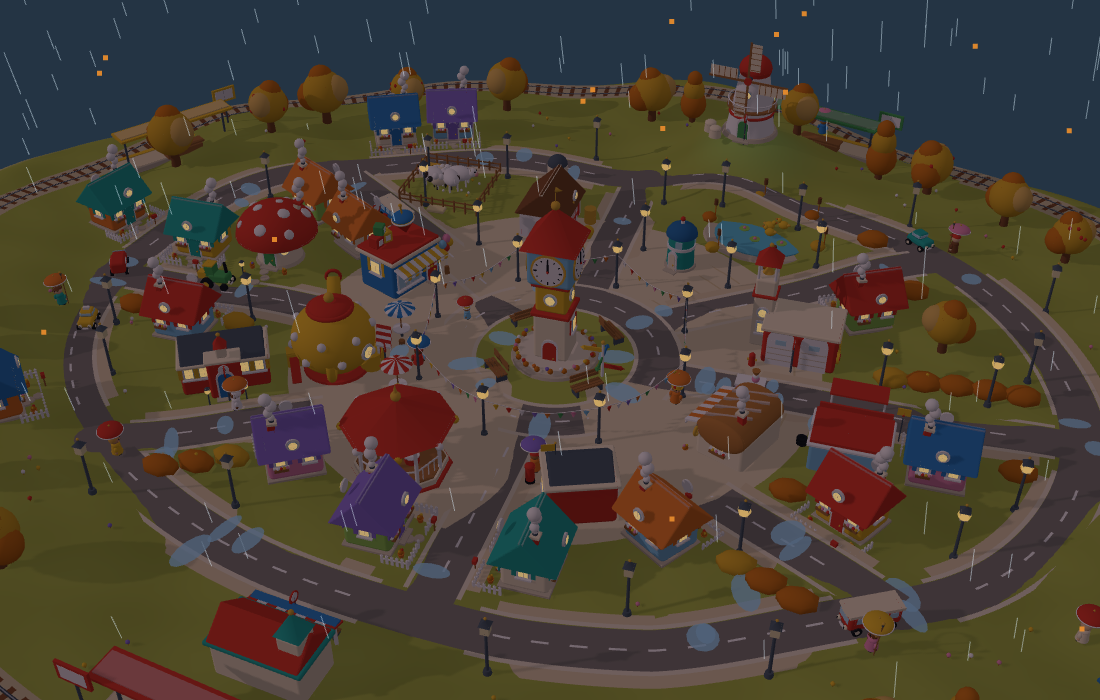
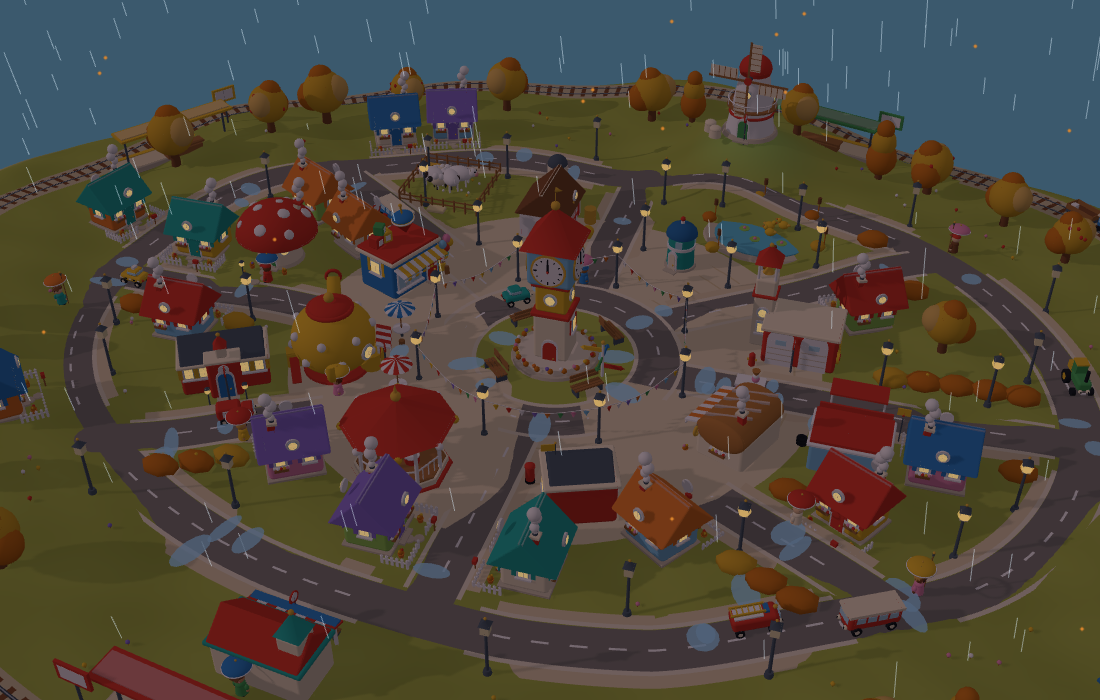
New Toy Town: polish from the owner's screenshot (sea at dusk, shallows, round petals, blossom trees) and a time-jump crash (#227)
* Toy Town: calmer pace, and days that match the news

The whole town runs at 60% speed. Up to three light stories now shape
the day, and the specific kind of story picks what happens, from 36
variants: cricket, tennis, a Grand Prix, a marathon, medals; the Moon,
a Mars rover, a comet; a polling queue; Diwali lamps and lanterns,
Christmas snow and a sleigh, Halloween ghosts and bats, a New Year
countdown, Holi colours, Eid lanterns; a concert, a prize, a red carpet;
a phone launch, robots, drones; a panda, a whale, a friendly dinosaur,
a penguin parade; coins from the bank tower and more. The everyday
chaos adds a marching band, a hot air balloon, a street musician, a hat
in the wind and a pothole. The grim-story filter matches whole words,
so fireworks and exploration are no longer mistaken for disasters.

Claude-Session: https://claude.ai/code/session_016DDzLFPb4BuxMAThu2pji2

* Toy Town: a calm town with traffic lights, cyclists and gentle moments

Fewer cars and walkers, four cyclists, and traffic lights at every
crossing that cars, bikes and walkers all wait for, so cross traffic no
longer piles into the crossings; nobody honks. The everyday rotation is
now gentle and unhurried: kites, picnics, a gardener watering window
boxes, a painter, a reader on a bench, butterflies, a napping cat, one
drifting balloon, the street sweeper, alongside the ice cream van,
busker, hot air balloon and band. Houses get window boxes; a tap brings
something gentle.
[…]

diff --git a/toy-town-new.html b/toy-town-new.html
@@ -36,20 +36,20 @@ canvas:active{cursor:grabbing}
 #fail small{opacity:.75}
 html.ui-off #jobs,html.ui-off #toast,html.ui-off #snd,html.ui-off #chip,html.ui-off #hint,html.ui-off #story,html.ui-off #card{display:none}
 </style>
-<script type="importmap" data-stamp="2a83b4c253">
+<script type="importmap" data-stamp="7016c53ad8">
 {"imports":{
   "three":"https://cdn.jsdelivr.net/npm/three@0.187.0/build/three.module.js",
   "three/addons/":"https://cdn.jsdelivr.net/npm/three@0.187.0/examples/jsm/",
-  "./assets/town2/build.mjs":"./assets/town2/build.mjs?v=2a83b4c253",
-  "./assets/town2/curve.mjs":"./assets/town2/curve.mjs?v=2a83b4c253",
-  "./assets/town2/def.mjs":"./assets/town2/def.mjs?v=2a83b4c253",
-  "./assets/town2/graph.mjs":"./assets/town2/graph.mjs?v=2a83b4c253",
-  "./assets/town2/inspect.mjs":"./assets/town2/inspect.mjs?v=2a83b4c253",
-  "./assets/town2/sim.mjs":"./assets/town2/sim.mjs?v=2a83b4c253",
-  "./assets/town2/sky.mjs":"./assets/town2/sky.mjs?v=2a83b4c253",
-  "./assets/town2/sound.mjs":"./assets/town2/sound.mjs?v=2a83b4c253",
-  "./assets/town2/stories.mjs":"./assets/town2/stories.mjs?v=2a83b4c253",
-  "./assets/town2/weather.mjs":"./assets/town2/weather.mjs?v=2a83b4c253"
+  "./assets/town2/build.mjs":"./assets/town2/build.mjs?v=7016c53ad8",
+  "./assets/town2/curve.mjs":"./assets/town2/curve.mjs?v=7016c53ad8",
+  "./assets/town2/def.mjs":"./assets/town2/def.mjs?v=7016c53ad8",
+  "./assets/town2/graph.mjs":"./assets/town2/graph.mjs?v=7016c53ad8",
+  "./assets/town2/inspect.mjs":"./assets/town2/inspect.mjs?v=7016c53ad8",
+  "./assets/town2/sim.mjs":"./assets/town2/sim.mjs?v=7016c53ad8",
+  "./assets/town2/sky.mjs":"./assets/town2/sky.mjs?v=7016c53ad8",
+  "./assets/town2/sound.mjs":"./assets/town2/sound.mjs?v=7016c53ad8",
+  "./assets/town2/stories.mjs":"./assets/town2/stories.mjs?v=7016c53ad8",
+  "./assets/town2/weather.mjs":"./assets/town2/weather.mjs?v=7016c53ad8"
 }}
 </script>
 </head>
@@ -65,7 +65,7 @@ html.ui-off #jobs,html.ui-off #toast,html.ui-off #snd,html.ui-off #chip,html.ui-
 <div id="fail"><div>The new town could not start.<br><a href="toy-town.html">Open the current town</a>, or try a hard refresh (Ctrl+F5).<br><small id="why"></small><br><small>If it mentions WebGL, turn on hardware acceleration in the browser's settings (in Edge: edge://settings/system).</small></div></div>
 <script>if(/[?&]clean=1\b/.test(location.search))document.documentElement.classList.add('ui-off');</script>
 <script type="module">
-  import('./assets/town2/main.mjs?v=2a83b4c253').catch(e => { console.error(e); document.getElementById('why').textContent = (e && (e.name + ': ' + e.message)) || String(e); document.getElementById('fail').style.display = 'flex'; });
+  import('./assets/town2/main.mjs?v=7016c53ad8').catch(e => { console.error(e); document.getElementById('why').textContent = (e && (e.name + ': ' + e.message)) || String(e); document.getElementById('fail').style.display = 'flex'; });
 </script>
 </body>
 </html>

diff --git a/TOY_TOWN_COLLAB.md b/TOY_TOWN_COLLAB.md
@@ -1191,3 +1191,11 @@ A `START` does not prohibit parallel edits. Avoid stepping on each other's uncom
 - **Things I had to fix on the way**: jobs called off at bedtime (carriers hurry, spawn and dispatch windows end earlier, jobs are cancelled only as a last resort), carriers blocked by the 7-walker cap (exempt now), stories sending waiting commuters off the platform (excluded), people missing the train by arriving while it stood (they board during the stop).
 - **Tests**: platform validity and ride acts in rounds; two simulated days (seed 7): every cargo cell is consistent (carrier knows it, station cargo is at a station), 2+ deliveries, 2+ kinds, never over capacity, 4+ rides by 3+ people; a parcel from building to building is accepted/refused correctly. Visual test: a train carrying goods or people screenshot, 1+ delivery and a work board, a parcel sent with a real click and the toast. Budgets unchanged (about 70 draw calls, 495 k triangles in the shadow-counted figure).
 - **Not verified**: on a real phone (the toast and board sizes on a small screen, tapping the Send button); in Edge; whether the amount of work feels right (a job about every 15-25 s of daytime, in two simulated days seed 7 delivered 10 of 10, none cancelled); riders are tiny at the default zoom.
+
+### 2026-11-10 · Claude · DONE (new storybook town, follow-up 6: audit of the owner's dusk screenshot, polish and a crash)
+- **Request (owner)**: "what other things should we build next; check the screenshot and fix things that you see as improper, not perfect or not structured".
+- **What the screenshot showed** (spring, around dawn or dusk, wide view): (1) the sea was a flat grey-green with no shore, so the island floated in a void (the sea was lit only by the dim sky light); (2) the falling petals were square pixels; (3) blossom trees were pink with a green cap and pines had pink tops (strawberries); (4) chimney smoke looks like little people on roofs at that zoom (left as is).
+- **Fixes**: the sea keeps its colour in low light (emissive scaled by how dim the light is) and there is a band of lighter shallows fading out from the coast (one more draw call); petals, snow and fireflies are soft round dots; in spring the whole crown of round trees is blossom and pines stay green.
+- **A real bug found while rendering**: `setHour` (used by tests and screenshots, not by the page itself) while the lamplighter was at a lamp left him walking on no route, and the next frame threw (`along` of null). `snapLamps` now sends the lamplighters indoors and they start afresh. Regression test: jumps in time from three hours to four hours, 30 s each, with nobody walking on no route.
+- **Tests**: logic suite and the visual test pass (72 draw calls, 495 k triangles). **Not verified**: a real phone; the shallows band is subtle by design and I only judged it on headless screenshots.
+
